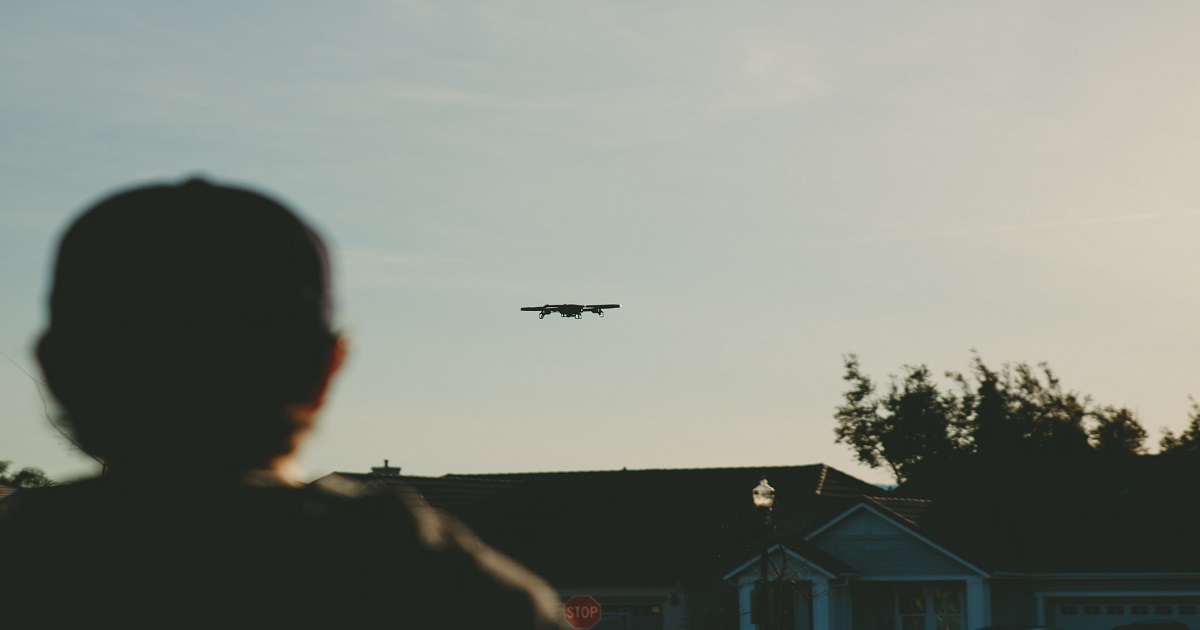
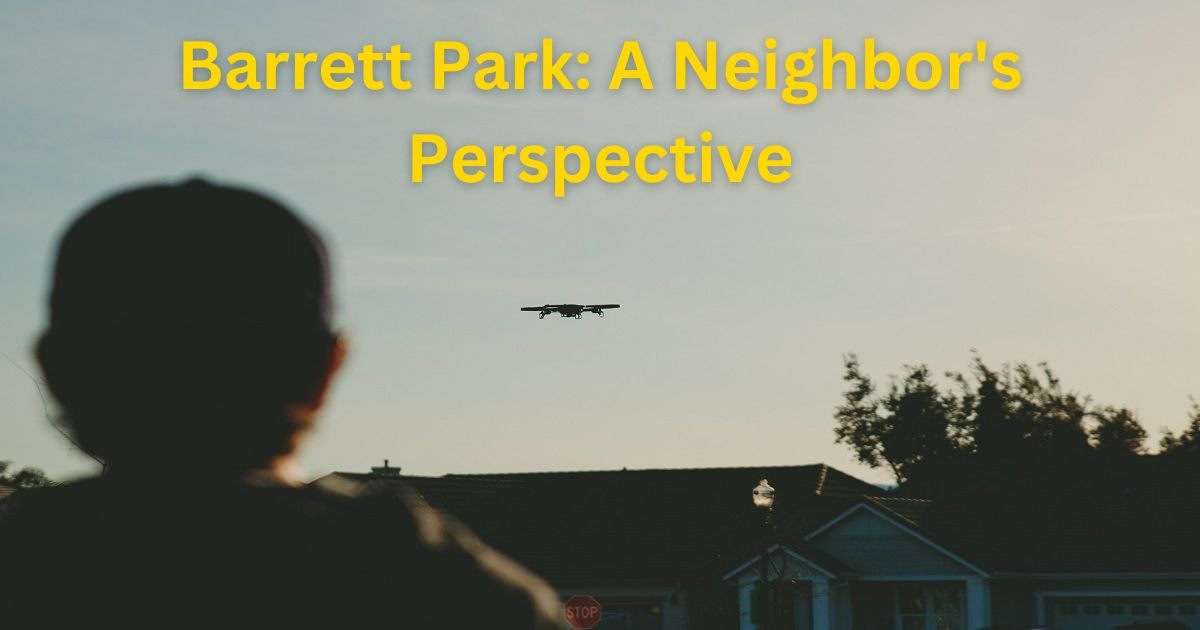
updated twitter share text og image for privacy

Changed region(s): [[0.1233, 0.0603, 0.8633, 0.181], [0.3392, 0.2111, 0.6783, 0.3317]]

diff --git a/environment.html b/environment.html
@@ -71,7 +71,7 @@
 
        <p>Hood River Valley Parks and Recreation District has a track record of pursuing environmentally high impact recreational development that destroys agricultural land (Barrett) and wooded parkland (Golden Eagle Park), with no significant compensatory efforts at environmental remediation to offset the loss of trees and habitat.</p>
        <div class="social-buttons">
-        <a href="https://twitter.com/share?ref_src=twsrc%5Etfw" class="twitter-share-button" data-text="Everyone loves parks, but should that mean a 265% rate hike for one of the agencies that manages them?" data-hashtags="#hoodriver" data-show-count="false">Tweet</a><script async src="https://platform.twitter.com/widgets.js" charset="utf-8"></script>
+        <a href="https://twitter.com/share?ref_src=twsrc%5Etfw" class="twitter-share-button" data-text="I support low impact development in Hood River" data-hashtags="#hoodriver" data-show-count="false">Tweet</a><script async src="https://platform.twitter.com/widgets.js" charset="utf-8"></script>
 
         <div class="fb-share-button" data-href="https://keirforparks.com/environment.html" data-layout="" data-size=""><a target="_blank" href="https://www.facebook.com/sharer/sharer.php?u=https%3A%2F%2Fkeirforparks.com%2Fenvironment.html&amp;src=sdkpreparse" class="fb-xfbml-parse-ignore">Share</a></div>
         </div>
@@ -105,7 +105,7 @@
         <p>As a board member, I would insist on it.</p>
 
         <div class="social-buttons">
-          <a href="https://twitter.com/share?ref_src=twsrc%5Etfw" class="twitter-share-button" data-text="Everyone loves parks, but should that mean a 265% rate hike for one of the agencies that manages them?" data-hashtags="#hoodriver" data-show-count="false">Tweet</a><script async src="https://platform.twitter.com/widgets.js" charset="utf-8"></script>
+          <a href="https://twitter.com/share?ref_src=twsrc%5Etfw" class="twitter-share-button" data-text="I support low impact development in Hood River" data-hashtags="#hoodriver" data-show-count="false">Tweet</a><script async src="https://platform.twitter.com/widgets.js" charset="utf-8"></script>
   
           <div class="fb-share-button" data-href="https://keirforparks.com/environment.html" data-layout="" data-size=""><a target="_blank" href="https://www.facebook.com/sharer/sharer.php?u=https%3A%2F%2Fkeirforparks.com%2Fenvironment.html&amp;src=sdkpreparse" class="fb-xfbml-parse-ignore">Share</a></div>
         

diff --git a/neighborsperspective.html b/neighborsperspective.html
@@ -10,6 +10,10 @@
   <link rel="icon" type="image/png" sizes="16x16" href="images/favicon-16x16.png">
   <link rel="manifest" href="/site.webmanifest">
 
+  <meta property="og:title" content="The Impact of a Bad Neighbor: A Perspective on Hood River Valley Parks and Recreation District's RC Flying Field"/>
+  <meta property="og:description" content="Living next to a park should be a peaceful experience, but what happens when the park becomes a bad neighbor? This webpage explores the negative impact of Hood River Valley Parks and Recreation District's RC flying field on its neighbors. From noise pollution to safety concerns, residents have been dealing with the consequences of the flying field for almost a decade. This is not just an issue of ethics, but of fundamental rights. Join us in exploring the impact of a bad neighbor and how we can work towards respectful and cooperative living in our communities."/>
+  <meta property="og:image" content="https:///www.keirforparks.com/images/privacy-og.jpg"/>
+
   <link rel="stylesheet" type="text/css" href="style.css">
 </head>
 <body>
@@ -78,7 +82,7 @@ This is not true, but that didn't stop Director Mark Hickok from raising the iss
           <div class="grid-item"><img src="images/rcfield3.jpg"></div>
           <div class="grid-item"><img src="images/rcfield4.jpg"></div>
         </div>
-        
+
         <p>So is this RC flying field an example of thoughtful development? Is Hood River Valley Parks and Recreation District being neighborly and concerned with the well being and quality of life of their Barrett Park neighbors? How would you feel if this was on the other side of the fence from you and your enjoyment of your property was reliant on whether a hobbyist decided to show up or not?</p>
       
         

diff --git a/community.html b/community.html
@@ -91,7 +91,7 @@
 
 <p>We need to know if there are kids being left behind.</p>
 <div class="social-buttons">
-  <a href="https://twitter.com/share?ref_src=twsrc%5Etfw" class="twitter-share-button" data-text="Everyone loves parks, but should that mean a 265% rate hike for one of the agencies that manages them?" data-hashtags="#hoodriver" data-show-count="false">Tweet</a><script async src="https://platform.twitter.com/widgets.js" charset="utf-8"></script>
+  <a href="https://twitter.com/share?ref_src=twsrc%5Etfw" class="twitter-share-button" data-text="I support increased community involvement with Hood River Valley Parks & Rec District" data-hashtags="#hoodriver" data-show-count="false">Tweet</a><script async src="https://platform.twitter.com/widgets.js" charset="utf-8"></script>
 
   <div class="fb-share-button" data-href="https://keirforparks.com/community.html" data-layout="" data-size=""><a target="_blank" href="https://www.facebook.com/sharer/sharer.php?u=https%3A%2F%2Fkeirforparks.com%2Fcommunity.html&amp;src=sdkpreparse" class="fb-xfbml-parse-ignore">Share</a></div>
       </div>
